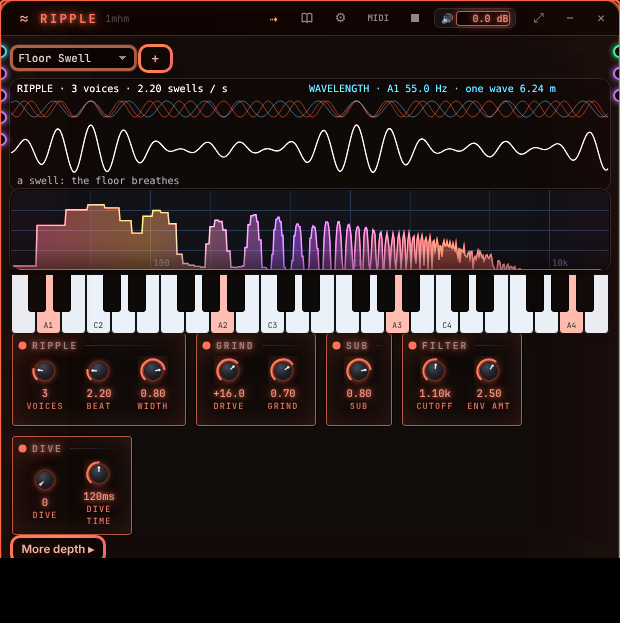
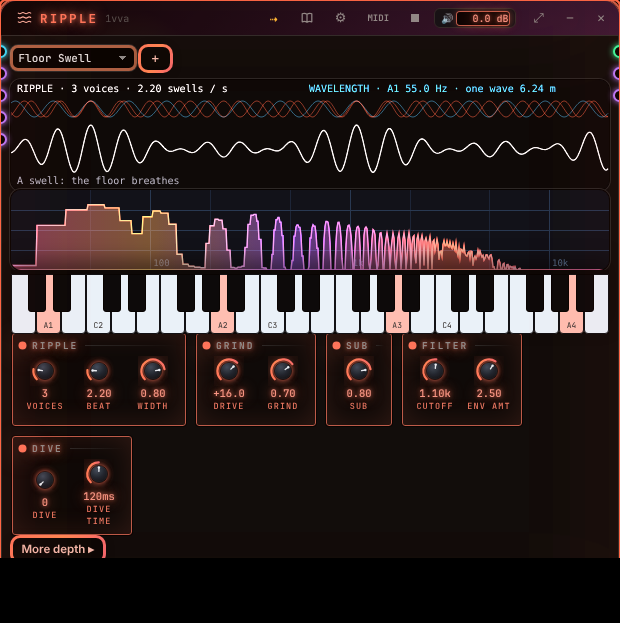
3.248 No lowercase on the four new tools
His words (2026-11-27): "als ostop with the lowercase."

- Ripple, Collision, Spatial Organism, Tension Field: hints, port names, intents and drawn readouts in sentence case
- their tests find ports by name without regard to case; every suite green; boundary 10/10

Claude-Session: https://claude.ai/code/session_01KyrX6X2EGE9iRwLJaPMpyM

diff --git a/tools/music/tools/bass/ripple/ripple.engine.js b/tools/music/tools/bass/ripple/ripple.engine.js
@@ -26,19 +26,19 @@
     config: [
       { key: 'wave', type: 'enum', options: Object.keys(WAVES), default: 'saw', label: 'Wave', group: 'GRIND' },
       { key: 'voices', type: 'integer', default: 3, min: 2, max: 7, label: 'Voices', group: 'RIPPLE', element: 'unison-stack' },
-      { key: 'beat', type: 'number', default: 1.6, min: 0, max: 12, step: 0.01, unit: 'Hz', label: 'Beat', group: 'RIPPLE', element: 'unison-stack', hint: 'how many times a second the voices swell together; under 7 Hz a swell, above it a growl' },
-      { key: 'detune', type: 'number', default: 0, min: 0, max: 1, step: 0.01, label: 'Detune', group: 'RIPPLE', element: 'unison-stack', hint: 'cents on top (they scale with the note; Beat does not)' },
+      { key: 'beat', type: 'number', default: 1.6, min: 0, max: 12, step: 0.01, unit: 'Hz', label: 'Beat', group: 'RIPPLE', element: 'unison-stack', hint: 'How many times a second the voices swell together; under 7 Hz a swell, above it a growl' },
+      { key: 'detune', type: 'number', default: 0, min: 0, max: 1, step: 0.01, label: 'Detune', group: 'RIPPLE', element: 'unison-stack', hint: 'Cents on top (they scale with the note; Beat does not)' },
       { key: 'width', type: 'number', default: 0.6, min: 0, max: 1, step: 0.01, label: 'Width', group: 'RIPPLE', element: 'unison-stack' },
       { key: 'midOct', type: 'enum', options: ['0', '+1', '+2'], default: '+1', label: 'Grind octave', group: 'GRIND' },
       { key: 'drive', type: 'number', default: 14, min: 0, max: 24, step: 0.1, unit: 'dB', label: 'Drive', group: 'GRIND', element: 'saturator-tube' },
-      { key: 'bias', type: 'number', default: 0.4, min: 0, max: 1, step: 0.01, label: 'Bias', group: 'GRIND', element: 'saturator-tube', hint: 'asymmetry: even harmonics' },
-      { key: 'grind', type: 'number', default: 0.7, min: 0, max: 1, step: 0.01, label: 'Grind', group: 'GRIND', hint: 'the grind’s level against the sub' },
-      { key: 'sub', type: 'number', default: 0.8, min: 0, max: 1, step: 0.01, label: 'Sub', group: 'SUB', hint: 'a clean sine on the note: never driven, always mono' },
+      { key: 'bias', type: 'number', default: 0.4, min: 0, max: 1, step: 0.01, label: 'Bias', group: 'GRIND', element: 'saturator-tube', hint: 'Asymmetry: even harmonics' },
+      { key: 'grind', type: 'number', default: 0.7, min: 0, max: 1, step: 0.01, label: 'Grind', group: 'GRIND', hint: 'The grind’s level against the sub' },
+      { key: 'sub', type: 'number', default: 0.8, min: 0, max: 1, step: 0.01, label: 'Sub', group: 'SUB', hint: 'A clean sine on the note: never driven, always mono' },
       { key: 'cutoff', type: 'number', default: 1400, min: 80, max: 12000, step: 1, unit: 'Hz', label: 'Cutoff', group: 'FILTER' },
       { key: 'res', type: 'number', default: 2, min: 0.5, max: 14, step: 0.1, label: 'Reso', group: 'FILTER' },
       { key: 'fEnv', type: 'number', default: 1.5, min: 0, max: 4, step: 0.01, unit: 'oct', label: 'Env amt', group: 'FILTER' },
       { key: 'fDec', type: 'number', default: 0.35, min: 0.02, max: 3, step: 0.01, unit: 's', label: 'Env dec', group: 'FILTER' },
-      { key: 'dive', type: 'number', default: 0, min: 0, max: 24, step: 0.1, unit: 'st', label: 'Dive', group: 'DIVE', hint: 'each note falls this far into its pitch' },
+      { key: 'dive', type: 'number', default: 0, min: 0, max: 24, step: 0.1, unit: 'st', label: 'Dive', group: 'DIVE', hint: 'Each note falls this far into its pitch' },
       { key: 'diveTime', type: 'number', default: 0.12, min: 0.01, max: 1.5, step: 0.01, unit: 's', label: 'Dive time', group: 'DIVE' },
       { key: 'aA', type: 'number', default: 0.004, min: 0.001, max: 2, step: 0.001, unit: 's', label: 'Attack', group: 'AMP' },
       { key: 'aD', type: 'number', default: 0.3, min: 0.01, max: 4, step: 0.01, unit: 's', label: 'Decay', group: 'AMP' },
@@ -53,7 +53,7 @@
       const ac = ctx.ac, P = ctx.params, MT = window.MusicTheory, US = MP.UnisonStack();
       const lvl = ac.createGain(); lvl.gain.value = P.get('level') * 0.5; const hr = ctx.dsp.headroom(ac), out = ac.createGain();
       lvl.connect(hr.input); hr.output.connect(out); hr.nodes.forEach(n => ctx.track(n)); ctx.track(lvl);
-      ctx.port('out', { kind: 'audio', direction: 'out', node: out, label: 'ripple' });
+      ctx.port('out', { kind: 'audio', direction: 'out', node: out, label: 'Ripple' });
       // the grind's bus → the tube (one, after the voices: their sums and differences are made here) → level; the sub goes round it
       const grindBus = ac.createGain(), grindLvl = ac.createGain(), subBus = ac.createGain(); grindLvl.gain.value = P.get('grind'); subBus.gain.value = P.get('sub');
       grindBus.connect(lvl); grindLvl.connect(grindBus); subBus.connect(lvl); [grindBus, grindLvl, subBus].forEach(n => ctx.track(n));
@@ -68,7 +68,7 @@
       const beatMod = ctx.modBus('beat', { min: -6, max: 6 }), cutMod = ctx.modBus('cutoff', { min: -4800, max: 4800 }), driveMod = ctx.modBus('drive', { min: -12, max: 12 });
       // out: the ripple itself — |cos(π·Beat·t)| = |sin| of an oscillator at Beat/2, through an absolute-value curve
       const rOsc = ac.createOscillator(); rOsc.frequency.value = P.get('beat') / 2; const abs = ac.createWaveShaper(); const cv = new Float32Array(1025); for (let i = 0; i < 1025; i++) cv[i] = Math.abs(i / 512 - 1); abs.curve = cv;
-      rOsc.connect(abs); rOsc.start(); ctx.track(rOsc); ctx.track(abs); ctx.port('ripple', { kind: 'mod', direction: 'out', node: abs, label: 'ripple' });
+      rOsc.connect(abs); rOsc.start(); ctx.track(rOsc); ctx.track(abs); ctx.port('ripple', { kind: 'mod', direction: 'out', node: abs, label: 'Ripple' });
       const layout = () => US.layout(P.get('voices'), P.get('detune'), 2, P.get('width'), 0.5, 2, 7, P.get('beat'));
       const voices = [];
       function makeVoice(note, vel, t, dur) {

diff --git a/tools/music/tools/effects/spatial-organism/spatial-organism.engine.js b/tools/music/tools/effects/spatial-organism/spatial-organism.engine.js
@@ -52,29 +52,29 @@ registerProcessor('eravos-spatial', EravosSpatial);`;
     size: { w: 600, h: 600 }, minSize: { w: 440, h: 400 },
     permissions: ['audio_out', 'audio_in', 'bus_publish', 'bus_subscribe'],
     provides: ['capability.audio_out', 'capability.fx', 'capability.mod_out'],
-    hooks: SDK.fxHooks([S.mod_in('sp.hook.mod_angle', 'angle'), S.mod_in('sp.hook.mod_distance', 'distance'), Object.assign(S.mod_out('sp.hook.where_out', 'where'), { label: 'where it is' })]),
+    hooks: SDK.fxHooks([S.mod_in('sp.hook.mod_angle', 'angle'), S.mod_in('sp.hook.mod_distance', 'distance'), Object.assign(S.mod_out('sp.hook.where_out', 'where'), { label: 'Where it is' })]),
     config: [
       { key: 'angle', type: 'number', default: 0, min: -1, max: 1, step: 0.01, label: 'Angle', group: 'PLACE', element: 'panner', hint: '−1 left · 0 ahead · 1 right' },
-      { key: 'distance', type: 'number', default: 0.2, min: 0, max: 1, step: 0.01, label: 'Distance', group: 'PLACE', element: 'panner', hint: 'quieter, darker and later the further it is' },
-      { key: 'ears', type: 'number', default: 0, min: 0, max: 1, step: 0.01, label: 'Ears', group: 'PLACE', element: 'panner', hint: 'binaural: the far ear hears it later and darker (headphones)' },
+      { key: 'distance', type: 'number', default: 0.2, min: 0, max: 1, step: 0.01, label: 'Distance', group: 'PLACE', element: 'panner', hint: 'Quieter, darker and later the further it is' },
+      { key: 'ears', type: 'number', default: 0, min: 0, max: 1, step: 0.01, label: 'Ears', group: 'PLACE', element: 'panner', hint: 'Binaural: the far ear hears it later and darker (headphones)' },
       { key: 'orbit', type: 'number', default: 0.25, min: 0.02, max: 6, step: 0.01, unit: 'Hz', label: 'Orbit', group: 'MOTION', element: 'lfo' },
       { key: 'shape', type: 'enum', options: SHAPES, default: 'pendulum', label: 'Swing', group: 'MOTION', element: 'lfo' },
       { key: 'orbitDepth', type: 'number', default: 0.6, min: 0, max: 1, step: 0.01, label: 'Swing width', group: 'MOTION', element: 'lfo' },
-      { key: 'lean', type: 'number', default: 0, min: -1, max: 1, step: 0.01, label: 'Lean', group: 'MOTION', element: 'lfo', hint: 'pendulum: lingers right (> 0) or left (< 0)' },
-      { key: 'orbitDist', type: 'number', default: 0.2, min: 0, max: 1, step: 0.01, label: 'Swing away', group: 'MOTION', hint: 'how far the swing carries it away from you' },
+      { key: 'lean', type: 'number', default: 0, min: -1, max: 1, step: 0.01, label: 'Lean', group: 'MOTION', element: 'lfo', hint: 'Pendulum: lingers right (> 0) or left (< 0)' },
+      { key: 'orbitDist', type: 'number', default: 0.2, min: 0, max: 1, step: 0.01, label: 'Swing away', group: 'MOTION', hint: 'How far the swing carries it away from you' },
       { key: 'room', type: 'number', default: 0.35, min: 0, max: 1, step: 0.01, label: 'Room', group: 'ROOM', element: 'early-reflections' },
       { key: 'size', type: 'number', default: 12, min: 2, max: 60, step: 0.1, unit: 'm', label: 'Size', group: 'ROOM', element: 'early-reflections' },
       { key: 'predelay', type: 'number', default: 8, min: 0, max: 100, step: 0.1, unit: 'ms', label: 'Pre-delay', group: 'ROOM', element: 'early-reflections' },
       { key: 'absorption', type: 'number', default: 0.35, min: 0, max: 0.95, step: 0.01, label: 'Absorb', group: 'ROOM', element: 'early-reflections' },
       { key: 'damping', type: 'number', default: 0.4, min: 0, max: 1, step: 0.01, label: 'Damping', group: 'ROOM', element: 'early-reflections' },
       { key: 'spread', type: 'number', default: 0.8, min: 0, max: 1, step: 0.01, label: 'Spread', group: 'ROOM', element: 'early-reflections' },
-      { key: 'width', type: 'number', default: 1, min: 0, max: 2, step: 0.01, label: 'Width', group: 'OUT', element: 'stereo-tools', hint: 'the input’s own stereo (its side)' },
+      { key: 'width', type: 'number', default: 1, min: 0, max: 2, step: 0.01, label: 'Width', group: 'OUT', element: 'stereo-tools', hint: 'The input’s own stereo (its side)' },
       { key: 'bassMono', type: 'number', default: 120, min: 0, max: 400, step: 1, unit: 'Hz', label: 'Bass mono', group: 'OUT', element: 'stereo-tools' },
     ].concat(SDK.STD_FX_CONFIG),
     defaultPreset: 'Moving Orbit',
     engine(ctx) {
       const ac = ctx.ac, P = ctx.params, fx = SDK.fxShell(ctx);
-      const whereBus = ac.createGain(); ctx.track(whereBus); ctx.port('where', { kind: 'mod', direction: 'out', node: whereBus, label: 'where it is' });
+      const whereBus = ac.createGain(); ctx.track(whereBus); ctx.port('where', { kind: 'mod', direction: 'out', node: whereBus, label: 'Where it is' });
       const angleMod = ctx.modBus('angle', { min: -1, max: 1 }), distMod = ctx.modBus('distance', { min: -1, max: 1 });
       const valueOf = (k) => k === 'shape' ? LFO_SHAPE[P.get('shape')] : P.get(k);
       let node = null; const pass = ac.createGain(); fx.wetIn.connect(pass); pass.connect(fx.wetOut); ctx.track(pass);

diff --git a/tools/music/tools/effects/band-collision/band-collision.engine.js b/tools/music/tools/effects/band-collision/band-collision.engine.js
@@ -46,17 +46,17 @@ registerProcessor('eravos-collision', EravosCollision);`;
     size: { w: 600, h: 560 }, minSize: { w: 440, h: 380 },
     permissions: ['audio_out', 'audio_in', 'bus_publish', 'bus_subscribe'],
     provides: ['capability.audio_out', 'capability.fx', 'capability.mod_out'],
-    hooks: SDK.fxHooks([Object.assign(S.audio_in('col.hook.key_in', 'key', true), { intent: 'KEY: the sound that takes the low end (wire a kick into it)', label: 'key' }),
-      S.mod_in('col.hook.mod_split', 'split'), Object.assign(S.mod_out('col.hook.duck_out', 'duck'), { label: 'the duck' })]),
+    hooks: SDK.fxHooks([Object.assign(S.audio_in('col.hook.key_in', 'key', true), { intent: 'KEY: the sound that takes the low end (wire a kick into it)', label: 'Key' }),
+      S.mod_in('col.hook.mod_split', 'split'), Object.assign(S.mod_out('col.hook.duck_out', 'duck'), { label: 'The duck' })]),
     config: [
-      { key: 'split', type: 'number', default: 130, min: 30, max: 600, step: 1, unit: 'Hz', label: 'Split', group: 'SPLIT', element: 'multiband-splitter', hint: 'under it is the LOW band (the sub), over it the MID' },
-      { key: 'lowDuck', type: 'number', default: 20, min: 0, max: 36, step: 0.1, unit: 'dB', label: 'Low duck', group: 'DUCK', hint: 'how far the low band steps back when the key hits' },
+      { key: 'split', type: 'number', default: 130, min: 30, max: 600, step: 1, unit: 'Hz', label: 'Split', group: 'SPLIT', element: 'multiband-splitter', hint: 'Under it is the LOW band (the sub), over it the MID' },
+      { key: 'lowDuck', type: 'number', default: 20, min: 0, max: 36, step: 0.1, unit: 'dB', label: 'Low duck', group: 'DUCK', hint: 'How far the low band steps back when the key hits' },
       { key: 'midDuck', type: 'number', default: 0, min: 0, max: 24, step: 0.1, unit: 'dB', label: 'Mid duck', group: 'DUCK' },
       { key: 'attack', type: 'number', default: 0.5, min: 0.1, max: 50, step: 0.1, unit: 'ms', label: 'Attack', group: 'KEY', element: 'envelope-follower' },
       { key: 'hold', type: 'number', default: 70, min: 0, max: 300, step: 1, unit: 'ms', label: 'Hold', group: 'KEY', element: 'envelope-follower' },
       { key: 'release', type: 'number', default: 180, min: 5, max: 1500, step: 1, unit: 'ms', label: 'Release', group: 'KEY', element: 'envelope-follower' },
-      { key: 'floor', type: 'number', default: -48, min: -90, max: -12, step: 1, unit: 'dB', label: 'Hears from', group: 'KEY', element: 'envelope-follower', hint: 'the key under this is silence to it' },
-      { key: 'lowMono', type: 'boolean', default: true, label: 'Low mono', group: 'SPLIT', hint: 'the low band folded to the centre' },
+      { key: 'floor', type: 'number', default: -48, min: -90, max: -12, step: 1, unit: 'dB', label: 'Hears from', group: 'KEY', element: 'envelope-follower', hint: 'The key under this is silence to it' },
+      { key: 'lowMono', type: 'boolean', default: true, label: 'Low mono', group: 'SPLIT', hint: 'The low band folded to the centre' },
       { key: 'lowGain', type: 'number', default: 0, min: -24, max: 12, step: 0.1, unit: 'dB', label: 'Low', group: 'BANDS' },
       { key: 'midGain', type: 'number', default: 0, min: -24, max: 12, step: 0.1, unit: 'dB', label: 'Mid', group: 'BANDS' },
     ].concat(SDK.STD_FX_CONFIG),
@@ -65,8 +65,8 @@ registerProcessor('eravos-collision', EravosCollision);`;
     engine(ctx) {
       const ac = ctx.ac, P = ctx.params, fx = SDK.fxShell(ctx);
       const keyIn = ac.createGain(); keyIn.channelCount = 2; keyIn.channelCountMode = 'explicit'; ctx.track(keyIn);
-      ctx.port('key', { kind: 'audio', direction: 'in', node: keyIn, label: 'key' });
-      const duckBus = ac.createGain(); ctx.track(duckBus); ctx.port('duck', { kind: 'mod', direction: 'out', node: duckBus, label: 'the duck' });
+      ctx.port('key', { kind: 'audio', direction: 'in', node: keyIn, label: 'Key' });
+      const duckBus = ac.createGain(); ctx.track(duckBus); ctx.port('duck', { kind: 'mod', direction: 'out', node: duckBus, label: 'The duck' });
       const splitMod = ctx.modBus('split', { min: -200, max: 200 });
       // the view's ears: the sound in, the key — the masking-analyzer reads them (never the audio thread)
       const anIn = ac.createAnalyser(), anKey = ac.createAnalyser(); [anIn, anKey].forEach(a => { a.fftSize = 4096; a.smoothingTimeConstant = 0.7; ctx.track(a); });

diff --git a/tools/music/tools/modulation/tension-field/tension-field.engine.js b/tools/music/tools/modulation/tension-field/tension-field.engine.js
@@ -49,14 +49,14 @@ registerProcessor('eravos-tension', EravosTension);`;
     size: { w: 600, h: 600 }, minSize: { w: 440, h: 400 },
     permissions: ['audio_in', 'audio_out', 'bus_publish', 'bus_subscribe'],
     provides: ['capability.mod_out'],
-    hooks: [Object.assign(S.audio_in('tf.hook.audio_in', 'in', true), { intent: 'the sound whose tension is heard (any tool, or the whole mix)' }), S.transport_in('tf.hook.transport_in'),
-      Object.assign(S.mod_in('tf.hook.mod_release', 'releaseIn'), { primary: true, intent: 'pushed past half, it lets go' }),
-      Object.assign(S.mod_out('tf.hook.tension', 'tension'), { label: 'tension' }), Object.assign(S.mod_out('tf.hook.release', 'release'), { label: 'release' }),
-      Object.assign(S.mod_out('tf.hook.loudness', 'loudness'), { label: 'loudness' }), Object.assign(S.mod_out('tf.hook.brightness', 'brightness'), { label: 'brightness' }),
-      Object.assign(S.mod_out('tf.hook.density', 'density'), { label: 'density' }), Object.assign(S.mod_out('tf.hook.motion', 'motion'), { label: 'motion' })],
+    hooks: [Object.assign(S.audio_in('tf.hook.audio_in', 'in', true), { intent: 'The sound whose tension is heard (any tool, or the whole mix)' }), S.transport_in('tf.hook.transport_in'),
+      Object.assign(S.mod_in('tf.hook.mod_release', 'releaseIn'), { primary: true, intent: 'Pushed past half, it lets go' }),
+      Object.assign(S.mod_out('tf.hook.tension', 'tension'), { label: 'Tension' }), Object.assign(S.mod_out('tf.hook.release', 'release'), { label: 'Release' }),
+      Object.assign(S.mod_out('tf.hook.loudness', 'loudness'), { label: 'Loudness' }), Object.assign(S.mod_out('tf.hook.brightness', 'brightness'), { label: 'Brightness' }),
+      Object.assign(S.mod_out('tf.hook.density', 'density'), { label: 'Density' }), Object.assign(S.mod_out('tf.hook.motion', 'motion'), { label: 'Motion' })],
     config: [
       { key: 'mode', type: 'enum', options: MODES, default: 'both', label: 'Mode', group: 'MODE', hint: 'Measure: heard · Target: the build · Both: the higher of the two' },
-      { key: 'hold', type: 'number', default: 8, min: 1, max: 64, step: 1, unit: 'bars', label: 'Hold', group: 'BUILD', element: 'energy-curve', hint: 'the build reaches Peak on the last bar of the hold' },
+      { key: 'hold', type: 'number', default: 8, min: 1, max: 64, step: 1, unit: 'bars', label: 'Hold', group: 'BUILD', element: 'energy-curve', hint: 'The build reaches Peak on the last bar of the hold' },
       { key: 'shape', type: 'number', default: 0.6, min: 0, max: 1, step: 0.01, label: 'Shape', group: 'BUILD', element: 'energy-curve', hint: '0 a straight climb · 1 it waits, then rushes' },
       { key: 'release', type: 'number', default: 0.2, min: 0.01, max: 8, step: 0.01, unit: 's', label: 'Release', group: 'BUILD', element: 'energy-curve' },
       { key: 'floor', type: 'number', default: 0, min: 0, max: 1, step: 0.01, label: 'Floor', group: 'BUILD', element: 'energy-curve' },
@@ -72,7 +72,7 @@ registerProcessor('eravos-tension', EravosTension);`;
     defaultPreset: 'Pre-Drop',
     engine(ctx) {
       const ac = ctx.ac, P = ctx.params, bar = () => 240 / (ctx.bpm || 120);
-      const inp = ac.createGain(); inp.channelCount = 2; inp.channelCountMode = 'explicit'; ctx.track(inp); ctx.port('in', { kind: 'audio', direction: 'in', node: inp, label: 'in' });
+      const inp = ac.createGain(); inp.channelCount = 2; inp.channelCountMode = 'explicit'; ctx.track(inp); ctx.port('in', { kind: 'audio', direction: 'in', node: inp, label: 'In' });
       const relMod = ctx.modBus('releaseIn', { min: 0, max: 1 });
       const buses = OUTS.map(k => { const g = ac.createGain(); ctx.track(g); ctx.port(k, { kind: 'mod', direction: 'out', node: g, label: k }); return g; });
       const valueOf = (k) => k === 'mode' ? MODES.indexOf(P.get('mode')) : k === 'holdS' ? P.get('hold') * bar() : k === 'releaseS' ? P.get('release') : k === 'restS' ? P.get('rest') * bar() : k === 'loop' ? (P.get('loop') ? 1 : 0) : P.get(k);

diff --git a/tools/music/tools/effects/spatial-organism/spatial-organism.ui.js b/tools/music/tools/effects/spatial-organism/spatial-organism.ui.js
@@ -24,15 +24,15 @@ OrganismFactory.reg('eravos.spatial-organism', function (view) {
       ER.taps().forEach(t => { const [x, y] = pos(t.pan, Math.min(1, d + t.t * 4)); g.fillStyle = `rgba(255,90,60,${Math.min(0.8, t.g * 2.5 * S('room'))})`; g.beginPath(); g.arc(x, y, 3, 0, TAU); g.fill(); }); }
     g.fillStyle = ACC; g.beginPath(); g.arc(sx, sy, 7, 0, TAU); g.fill();
     g.fillStyle = '#e8e8ea'; g.beginPath(); g.arc(cx, cy, 4, 0, TAU); g.fill();
-    g.font = '10px ui-monospace, monospace'; g.fillStyle = DIM; g.fillText('you', cx - 9, cy + 16);
-    g.fillStyle = '#e8e8ea'; g.fillText(`SPACE · ${a < -0.05 ? 'left ' + Math.round(-a * 90) + '°' : a > 0.05 ? 'right ' + Math.round(a * 90) + '°' : 'ahead'} · ${(0.5 + d * 3.5).toFixed(1)} m away${S('ears') > 0 ? ' · ears ' + Math.round(S('ears') * 100) + ' %' : ''}`, 6, 12);
-    g.fillStyle = ACC2; g.fillText(S('room') > 0 ? `room ${S('size').toFixed(0)} m · 12 echoes` : 'no room', W - 150, 12);
-    g.fillStyle = DIM; g.fillText(S('shape') === 'pendulum' ? `swings ${S('orbit').toFixed(2)} / s, lingers ${S('lean') > 0.05 ? 'right' : S('lean') < -0.05 ? 'left' : 'nowhere'}` : `orbits ${S('orbit').toFixed(2)} / s`, 6, 26);
+    g.font = '10px ui-monospace, monospace'; g.fillStyle = DIM; g.fillText('You', cx - 9, cy + 16);
+    g.fillStyle = '#e8e8ea'; g.fillText(`SPACE · ${a < -0.05 ? 'Left ' + Math.round(-a * 90) + '°' : a > 0.05 ? 'Right ' + Math.round(a * 90) + '°' : 'Ahead'} · ${(0.5 + d * 3.5).toFixed(1)} m away${S('ears') > 0 ? ' · ears ' + Math.round(S('ears') * 100) + ' %' : ''}`, 6, 12);
+    g.fillStyle = ACC2; g.fillText(S('room') > 0 ? `Room ${S('size').toFixed(0)} m · 12 echoes` : 'No room', W - 150, 12);
+    g.fillStyle = DIM; g.fillText(S('shape') === 'pendulum' ? `Swings ${S('orbit').toFixed(2)} / s, lingers ${S('lean') > 0.05 ? 'Right' : S('lean') < -0.05 ? 'Left' : 'Nowhere'}` : `Orbits ${S('orbit').toFixed(2)} / s`, 6, 26);
   }, 30);
   const face = h('div', { class: 'uk-panel' }, [card('PLACE', ['angle', 'distance', 'ears']), card('MOTION', ['shape', 'orbit', 'orbitDepth', 'lean']), card('ROOM', ['room', 'size'])]);
   const deep = h('div', { class: 'uk-panel' }, [card('MOTION+', ['orbitDist']), card('ROOM+', ['predelay', 'absorption', 'damping', 'spread']), card('OUT', ['width', 'bassMono', 'mix'])]);
   deep.style.display = 'none';
-  const more = UI.Button({ label: 'More depth ▸', hint: 'how far the swing carries it away, the room’s pre-delay, absorption, damping and spread, the input’s own width, bass mono, the mix', onClick: () => { const show = deep.style.display === 'none'; deep.style.display = show ? '' : 'none'; more.el.textContent = show ? 'More depth ▾' : 'More depth ▸'; } });
+  const more = UI.Button({ label: 'More depth ▸', hint: 'How far the swing carries it away, the room’s pre-delay, absorption, damping and spread, the input’s own width, bass mono, the mix', onClick: () => { const show = deep.style.display === 'none'; deep.style.display = show ? '' : 'none'; more.el.textContent = show ? 'More depth ▾' : 'More depth ▸'; } });
   view.root.append(h('div', { class: 'org-row', style: { justifyContent: 'space-between' } }, [UI.presetBar(view)]), cv, face, h('div', { class: 'org-row' }, [more.el]), deep,
     UI.hint('Wire any sound through: it becomes a point around you. Near is loud, bright and now; far is quiet, dark and late. The swing moves it (the pendulum lingers on one side); the room answers with its first echoes. Where it is goes out (violet) to move anything else.'));
 });

diff --git a/tools/music/tools/effects/band-collision/band-collision.ui.js b/tools/music/tools/effects/band-collision/band-collision.ui.js
@@ -21,15 +21,15 @@ OrganismFactory.reg('eravos.band-collision', function (view) {
     duckTap.getFloatTimeDomainData(db); let e = 0; for (const v of db) e = Math.max(e, v);
     const dLow = S('lowDuck') * e; g.fillStyle = ACC; g.fillRect(6, base + 6, Math.max(0, (sx - 6) * Math.min(1, dLow / 36)), 4);
     [30, 50, 100, 200, 500, 1000, 5000].forEach(hz => { g.fillStyle = DIM; g.font = '10px ui-monospace, monospace'; g.fillText(hz >= 1000 ? hz / 1000 + 'k' : '' + hz, x(hz) - 6, H - 1); });
-    g.font = '10px ui-monospace, monospace'; g.fillStyle = '#e8e8ea'; g.fillText('the sound', 6, 12); g.fillStyle = ACC2; g.fillText('the key', 74, 12);
-    g.fillStyle = ACC; g.fillText(last ? `collide ${(last.total * 100).toFixed(0)} %` : 'collide —', 128, 12);
+    g.font = '10px ui-monospace, monospace'; g.fillStyle = '#e8e8ea'; g.fillText('The sound', 6, 12); g.fillStyle = ACC2; g.fillText('The key', 74, 12);
+    g.fillStyle = ACC; g.fillText(last ? `Collide ${(last.total * 100).toFixed(0)} %` : 'Collide —', 128, 12);
     g.fillStyle = DIM; g.fillText(`LOW < ${S('split')} Hz ducks ${dLow.toFixed(1)} dB now`, W - 230, 12);
-    g.fillText(last && last.total > 0.02 ? 'lit: both loud in the same band' : 'wire a kick into the key (blue dot) to see where they meet', 6, 24);
+    g.fillText(last && last.total > 0.02 ? 'Lit: both loud in the same band' : 'Wire a kick into the key (blue dot) to see where they meet', 6, 24);
   }, 30);
   const face = h('div', { class: 'uk-panel' }, [card('SPLIT', ['split', 'lowMono']), card('DUCK', ['lowDuck', 'midDuck']), card('KEY', ['attack', 'hold', 'release'])]);
   const deep = h('div', { class: 'uk-panel' }, [card('KEY+', ['floor']), card('BANDS', ['lowGain', 'midGain']), card('OUT', ['mix'])]);
   deep.style.display = 'none';
-  const more = UI.Button({ label: 'More depth ▸', hint: 'what the key hears from, each band’s level, the mix', onClick: () => { const show = deep.style.display === 'none'; deep.style.display = show ? '' : 'none'; more.el.textContent = show ? 'More depth ▾' : 'More depth ▸'; } });
+  const more = UI.Button({ label: 'More depth ▸', hint: 'What the key hears from, each band’s level, the mix', onClick: () => { const show = deep.style.display === 'none'; deep.style.display = show ? '' : 'none'; more.el.textContent = show ? 'More depth ▾' : 'More depth ▸'; } });
   view.root.append(h('div', { class: 'org-row', style: { justifyContent: 'space-between' } }, [UI.presetBar(view)]), cv, face, h('div', { class: 'org-row' }, [more.el]), deep,
     UI.hint('Two sounds in one band fight for it. Wire the bass through, a kick into the key: on every kick the low band steps back (Low duck), the mid if you want (Mid duck). The duck goes out (violet) to move anything else at the same moment.'));
 });

diff --git a/tools/music/tools/modulation/tension-field/tension-field.ui.js b/tools/music/tools/modulation/tension-field/tension-field.ui.js
@@ -23,12 +23,12 @@ OrganismFactory.reg('eravos.tension-field', function (view) {
     g.fillStyle = ACC; g.fillText(`Tension ${Math.round(row.tension * 100)} %`, W - 110, 12);
     g.fillStyle = DIM; g.fillText(S('mode') === 'measure' ? 'Heard from what is wired in' : S('mode') === 'target' ? `Build: Peak by bar ${S('hold')}` : `Heard, never below the build (bar ${S('hold')})`, 6, 24);
   }, 30);
-  let building = false; const go = UI.Button({ label: '⇡ Build', kind: 'primary', hint: 'start the build now (it also starts when the transport plays)', onClick: () => { view.emit(building ? 'release_now' : 'build_now', {}); } });
-  const label = () => { go.el.textContent = building ? '⇣ Release' : '⇡ Build'; go.el.title = building ? 'let the tension go now' : 'start the build now (it also starts when the transport plays)'; };
+  let building = false; const go = UI.Button({ label: '⇡ Build', kind: 'primary', hint: 'Start the build now (it also starts when the transport plays)', onClick: () => { view.emit(building ? 'release_now' : 'build_now', {}); } });
+  const label = () => { go.el.textContent = building ? '⇣ Release' : '⇡ Build'; go.el.title = building ? 'Let the tension go now' : 'Start the build now (it also starts when the transport plays)'; };
   view.on('build', () => { building = true; label(); }); view.on('release', () => { building = false; label(); });
   const face = h('div', { class: 'uk-panel' }, [card('Mode', ['mode']), card('Build', ['hold', 'shape', 'release', 'loop']), card('Hear', ['wLoud', 'wBright', 'wDense', 'wMotion'])]);
   const deep = h('div', { class: 'uk-panel' }, [card('Build+', ['floor', 'peak', 'rest'])]); deep.style.display = 'none';
-  const more = UI.Button({ label: 'More depth ▸', hint: 'where the build starts and ends, and the rest between builds', onClick: () => { const show = deep.style.display === 'none'; deep.style.display = show ? '' : 'none'; more.el.textContent = show ? 'More depth ▾' : 'More depth ▸'; } });
+  const more = UI.Button({ label: 'More depth ▸', hint: 'Where the build starts and ends, and the rest between builds', onClick: () => { const show = deep.style.display === 'none'; deep.style.display = show ? '' : 'none'; more.el.textContent = show ? 'More depth ▾' : 'More depth ▸'; } });
   view.root.append(h('div', { class: 'org-row', style: { justifyContent: 'space-between' } }, [UI.presetBar(view), go.el]), cv, face, h('div', { class: 'org-row' }, [more.el]), deep,
     UI.hint('Wire a sound (or the whole mix) in to hear its tension: Loudness, Brightness, Density, Motion. Or let it build: from Play, it climbs to Peak by the last bar of the Hold and lets go. Each one goes out (violet) to move any knob: wire Tension into a filter, Release into anything that should drop.'));
 });

diff --git a/tools/music/tools/bass/ripple/ripple.ui.js b/tools/music/tools/bass/ripple/ripple.ui.js
@@ -18,7 +18,7 @@ OrganismFactory.reg('eravos.ripple', function (view) {
     if (n === 2) { g.strokeStyle = ACC; g.setLineDash([3, 3]); g.beginPath(); for (let x = 0; x < W; x++) { const y = mid + 10 - 24 * Math.abs(Math.cos(Math.PI * b * sh(x))); x ? g.lineTo(x, y) : g.moveTo(x, y); } g.stroke(); g.setLineDash([]); }
     const hz = MT.hz(lastNote + 12 * S('octave')), lam = 343 / hz;
     label(g, `RIPPLE · ${n} voices · ${b.toFixed(2)} swells / s`, 6, 12, '#e8e8ea');
-    label(g, b < 0.05 ? 'no ripple: one clean wave' : b < 7 ? 'a swell: the floor breathes' : 'roughness: a growl', 6, H - 6, b < 7 ? DIM : ACC);
+    label(g, b < 0.05 ? 'No ripple: one clean wave' : b < 7 ? 'A swell: the floor breathes' : 'Roughness: a growl', 6, H - 6, b < 7 ? DIM : ACC);
     label(g, `WAVELENGTH · ${MT.noteName ? MT.noteName(lastNote + 12 * S('octave')) : ''} ${hz.toFixed(1)} Hz · one wave ${lam.toFixed(2)} m`, W - 300, 12, ACC2);
   }, 30);
   const an = view.tap('out', 4096);
@@ -32,7 +32,7 @@ OrganismFactory.reg('eravos.ripple', function (view) {
   const face = h('div', { class: 'uk-panel' }, [card('RIPPLE', ['voices', 'beat', 'width']), card('GRIND', ['drive', 'grind']), card('SUB', ['sub']), card('FILTER', ['cutoff', 'fEnv']), card('DIVE', ['dive', 'diveTime'])]);
   const deep = h('div', { class: 'uk-panel' }, [card('RIPPLE+', ['detune']), card('GRIND+', ['wave', 'midOct', 'bias']), card('FILTER+', ['res', 'fDec']), card('AMP', ['aA', 'aD', 'aS', 'aR']), card('OUT', ['octave', 'level'])]);
   deep.style.display = 'none';
-  const more = UI.Button({ label: 'More depth ▸', hint: 'detune in cents, the grind’s wave, octave and bias, resonance, the filter’s decay, the amp envelope, octave and level', onClick: () => { const show = deep.style.display === 'none'; deep.style.display = show ? '' : 'none'; more.el.textContent = show ? 'More depth ▾' : 'More depth ▸'; } });
+  const more = UI.Button({ label: 'More depth ▸', hint: 'Detune in cents, the grind’s wave, octave and bias, resonance, the filter’s decay, the amp envelope, octave and level', onClick: () => { const show = deep.style.display === 'none'; deep.style.display = show ? '' : 'none'; more.el.textContent = show ? 'More depth ▾' : 'More depth ▸'; } });
   view.root.append(h('div', { class: 'org-row', style: { justifyContent: 'space-between' } }, [UI.presetBar(view)]), cv, spec.el || spec, kb.el, face, h('div', { class: 'org-row' }, [more.el]), deep,
     UI.hint('A clean sub on the note, and above it a grind of voices a few hertz apart: they swell together Beat times a second on every note. Drive turns their sums and differences into new partials. The ripple goes out (violet) to move any other knob.'));
 });

diff --git a/tools/music/tools/effects/spatial-organism/spatial-organism.test.js b/tools/music/tools/effects/spatial-organism/spatial-organism.test.js
@@ -11,7 +11,7 @@ describe('Spatial Organism — a point around you, moved, in a room', () => {
     Object.entries(Object.assign({}, REST, params)).forEach(([k, v]) => c.params.set(k, v)); await c.ready;
     const ports = K.audio.ports(a), inN = ports.find(x => x.kind === 'audio' && x.direction === 'in').node, outN = ports.find(x => x.kind === 'audio' && x.direction === 'out').node;
     K.audio.chain.out.gain.value = 0; outN.connect(ctx.destination);
-    let whereBuf = null; if (taps) { const w = ports.find(x => x.label === 'where it is' || x.id === 'where' || x.port_id === 'where'); const m = ctx.createChannelMerger(2); w.node.connect(m, 0, 0); m.connect(ctx.destination); whereBuf = true; }
+    let whereBuf = null; if (taps) { const w = ports.find(x => x.label.toLowerCase() === 'where it is' || x.id === 'where' || x.port_id === 'where'); const m = ctx.createChannelMerger(2); w.node.connect(m, 0, 0); m.connect(ctx.destination); whereBuf = true; }
     src(ctx, inN, sr); const b = await ctx.startRendering(); return { L: b.getChannelData(0), R: b.getChannelData(1), sr };
   }
   const tone = (hz, panL, panR, from, to) => (ctx, node) => { const o = ctx.createOscillator(); o.frequency.value = hz; const m = ctx.createChannelMerger(2), gl = ctx.createGain(), gr = ctx.createGain();

diff --git a/tools/music/tools/modulation/tension-field/tension-field.test.js b/tools/music/tools/modulation/tension-field/tension-field.test.js
@@ -8,7 +8,7 @@ describe('Tension Field — heard, built, released', () => {
     const K = Kernel.create({ ctx, quiet: true, syncIR: true }); const T = MasterTransport.create(K, { offline: true, bpm: 120 }); T.boot();
     const a = OrganismFactory.spawn('eravos.tension-field', { K, headless: true }), c = OrganismFactory.handle(a).ctx;
     Object.entries(params).forEach(([k, v]) => c.params.set(k, v)); await c.ready;
-    const ports = K.audio.ports(a), inN = ports.find(x => x.kind === 'audio' && x.direction === 'in').node, out = (k) => ports.find(x => x.kind === 'mod' && x.label === k).node;
+    const ports = K.audio.ports(a), inN = ports.find(x => x.kind === 'audio' && x.direction === 'in').node, out = (k) => ports.find(x => x.kind === 'mod' && x.label.toLowerCase() === k).node;
     K.audio.chain.out.gain.value = 0; const m = ctx.createChannelMerger(6); ['tension', 'release', 'loudness', 'brightness', 'density', 'motion'].forEach((k, i) => out(k).connect(m, 0, i)); m.connect(ctx.destination);
     if (src) src(ctx, inN); if (during) during(c, ctx, K);
     const b = await ctx.startRendering(); const ch = (i) => b.getChannelData(i); return { tension: ch(0), release: ch(1), loud: ch(2), sr, at: (d, t) => d[Math.floor(t * sr)] };

diff --git a/tools/music/tools/effects/band-collision/band-collision.test.js b/tools/music/tools/effects/band-collision/band-collision.test.js
@@ -11,7 +11,7 @@ describe('Collision — the low end steps back when the key hits', () => {
     await c.ready;
     const port = (id) => K.audio.ports(a).find(x => x.id === id || x.name === id || x.label === id || (x.port && x.port === id));
     const ins = K.audio.ports(a).filter(x => x.kind === 'audio' && x.direction === 'in'), outP = K.audio.ports(a).find(x => x.kind === 'audio' && x.direction === 'out');
-    const inNode = ins.find(x => x.label === 'in').node, keyNode = ins.find(x => x.label === 'key').node;
+    const inNode = ins.find(x => x.label.toLowerCase() === 'in').node, keyNode = ins.find(x => x.label.toLowerCase() === 'key').node;
     K.audio.chain.out.gain.value = 0; outP.node.connect(ctx.destination);
     src(ctx, inNode, sr); if (key) key(ctx, keyNode, sr);
     const b = await ctx.startRendering(); return { L: b.getChannelData(0), R: b.getChannelData(1), sr };

diff --git a/docs/TODO-LEDGER.md b/docs/TODO-LEDGER.md
@@ -113,7 +113,7 @@ it moves to **Done**, and says where and the proof. His words in full, with what
 | T-95 | **Ripples**: detune in Hz on unison-stack and oscillator-population (CS1); the pendulum LFO shape (CS2) — also Wobble Bass's contrast (T-91). | "the way it creates ripples and tension" | **built** 3.242 (Ripple; LFO Pendulum) — confirm by ear |
 | T-96 | **Collisions and space**: masking-analyzer, per-band ducker, panner, early-reflections built (CS3, CS4); Contrast Space the tool (CS9). | "the frequencies how the collide" | collisions **built** 3.243 (Collision); space **built** 3.244 (Spatial Organism); CS9 withdrawn (a setup instead) |
 | T-97 | **Tension and emergence** as signals: tension-meter (CS5), agreement (sync) out of oscillator-population + relationship-graph (CS6); silence and release in the song engine (CS8). | "tension, oscillations. wavelengths, emergence." | tension **built** 3.246 (Tension Field); emergence, CS8 open |
-| T-99 | **No lowercase**: every label, hint, readout and summary starts with a capital (sentence case) — the new tools first, then all. | "als ostop with the lowercase." | open (after the release) |
+| T-99 | **No lowercase**: every label, hint, readout and summary starts with a capital (sentence case) — the new tools first, then all. | "als ostop with the lowercase." | the four new tools **built** 3.248; the rest of ERAVOS: asked (the same everywhere?) |
 | T-100 | **No cheap icons**: the new tools' glyph icons (≈ ⨯ ◎ T) replaced by real drawn icons like the rest. | "and cheap icons." | **built** 3.247 (drawn icons + paintings) — are there other icons he means? |
 | T-101 | **Make music from his lyrics, with the Piano** he loves (Lyrics → Rhythm's song). | "Still feel like i want to make music with this. using my lyrics. i love the piano its beautiful look at it." | open |
 | T-102 | **The wub tools route** (3.245). | "like the wub tools wire but don't route." | **built** — confirm on his PC |
